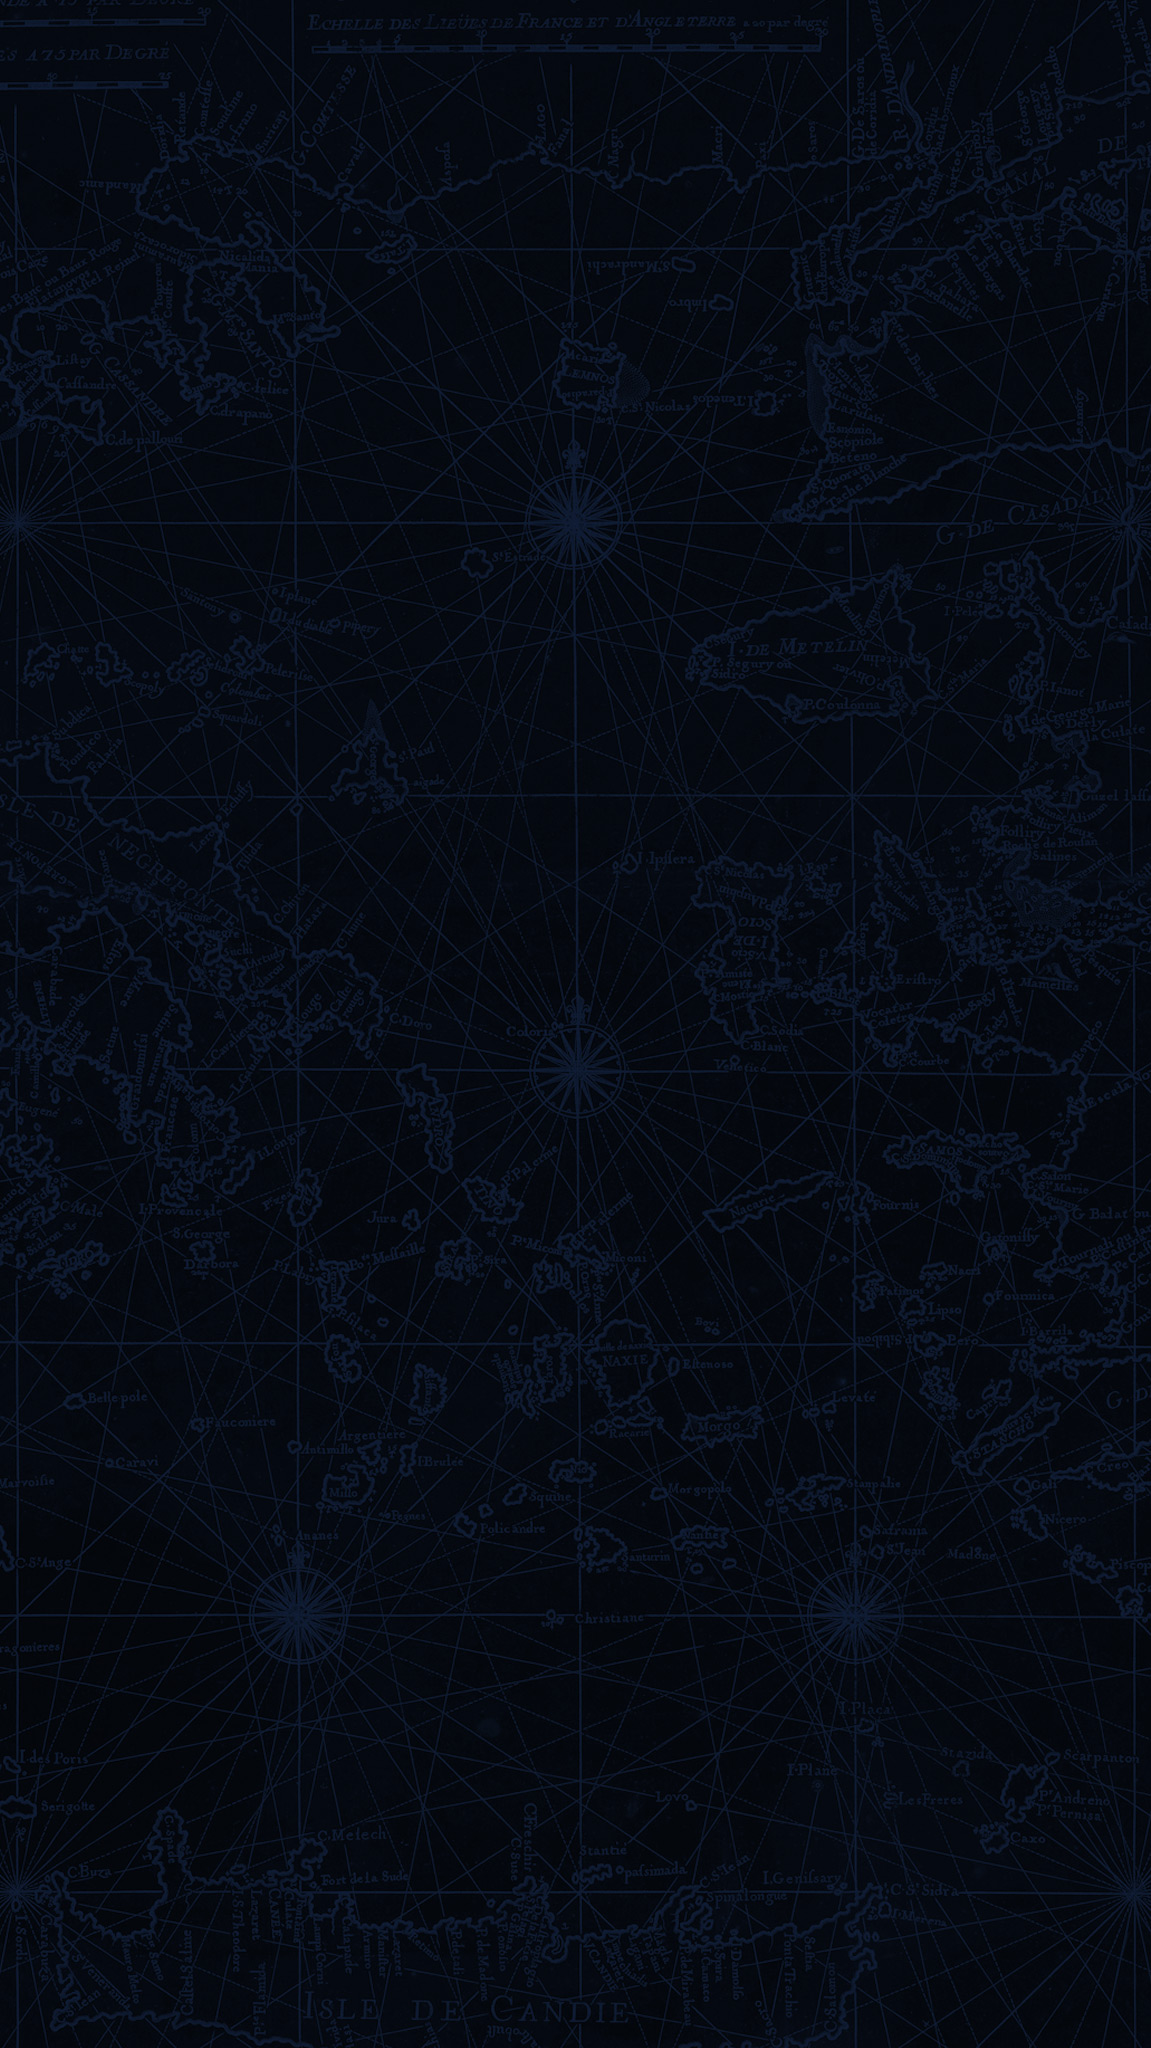
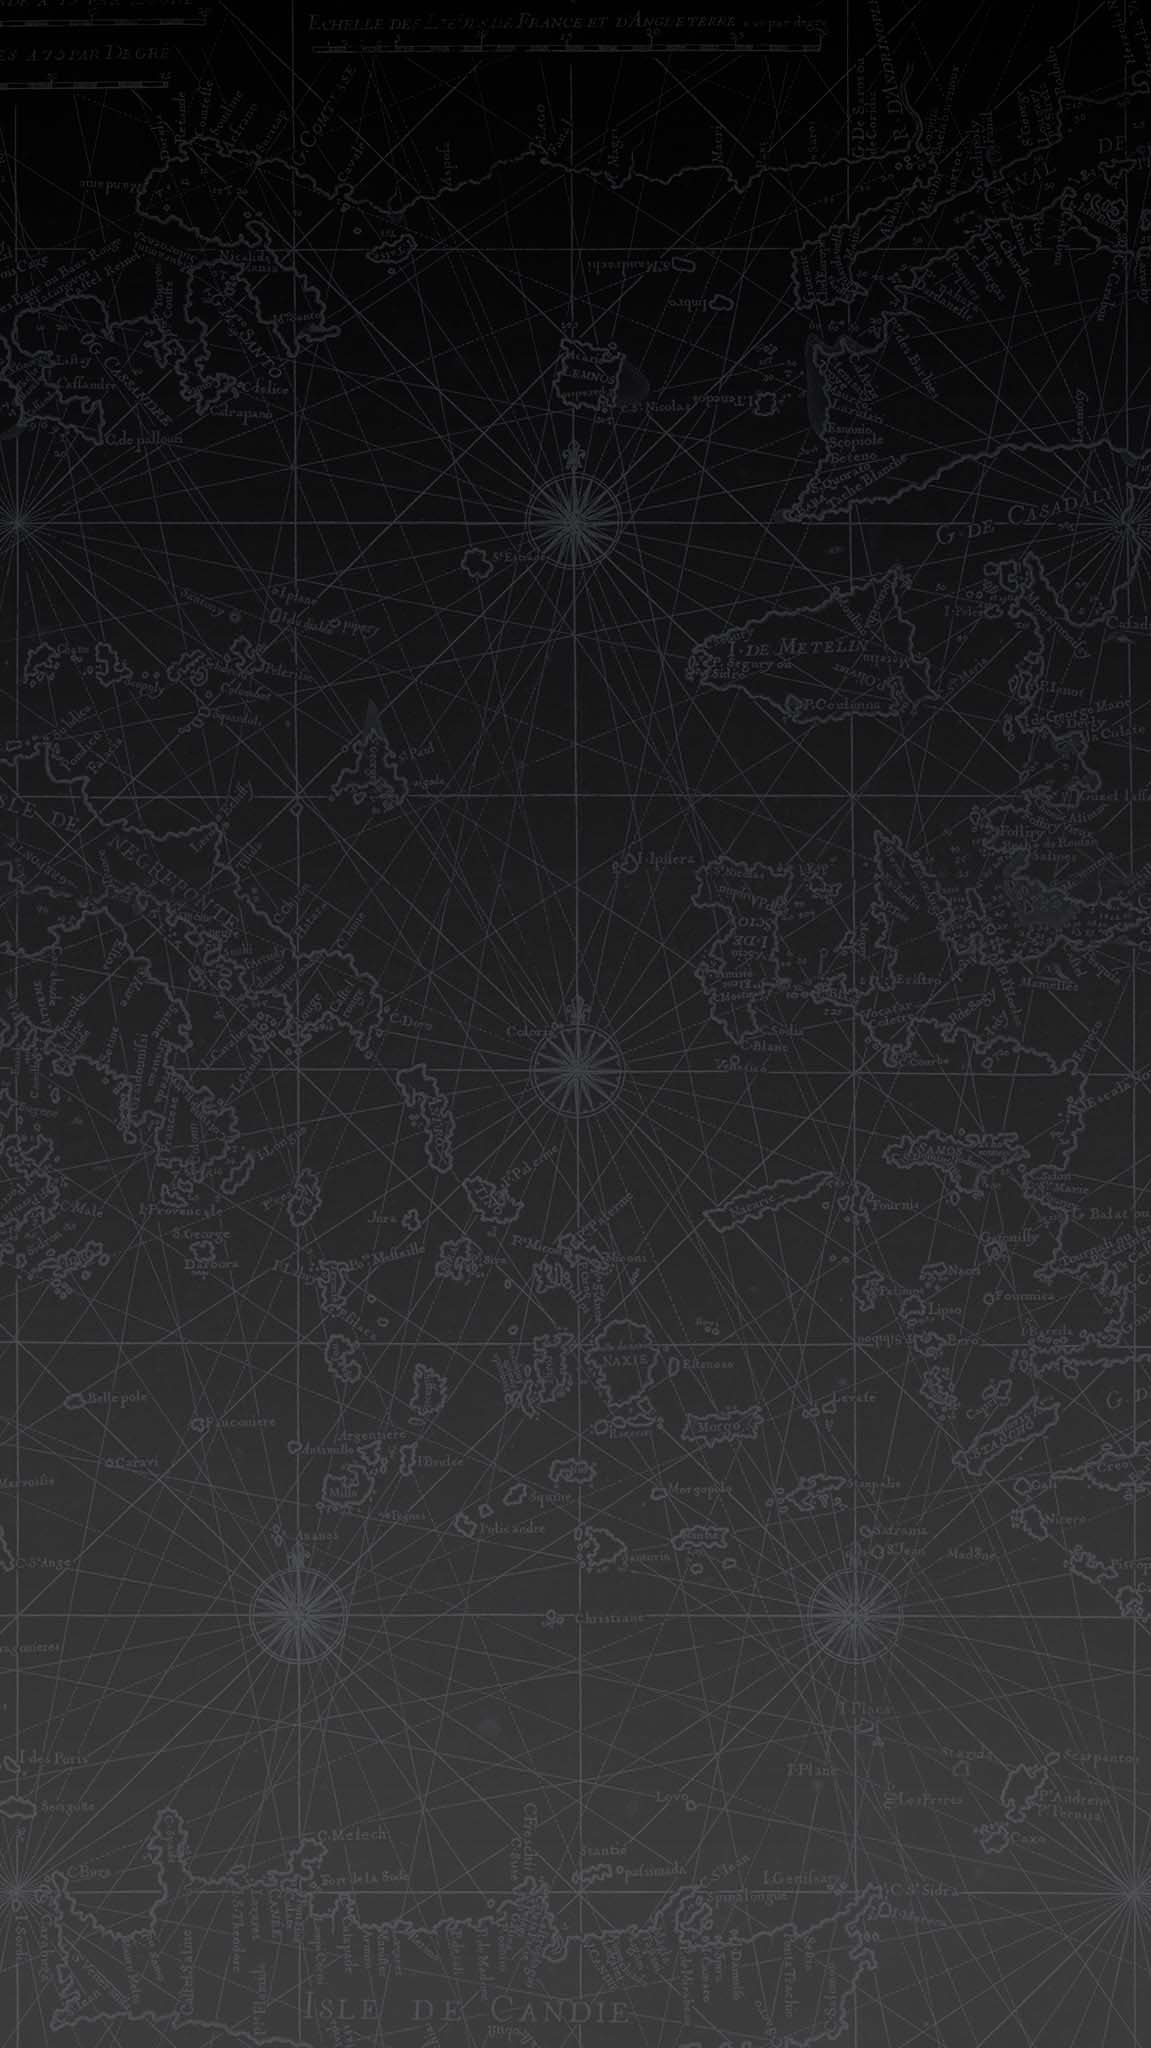
Wallet, UI fixes
- Wallet UI updates
- Fix names of background files
- Update navigation bar styling

diff --git a/src/global/Screens.js b/src/global/Screens.js
@@ -24,26 +24,61 @@ export const androidNavigationButtons = Platform.OS === 'android' ? {
 } : {};
 
 // Navigation Bar Style
+/*
+  Documentation:
+  
+  navBarTextColor: '#000000', // change the text color of the title (remembered across pushes)
+  navBarTextFontSize: 18, // change the font size of the title
+  navBarTextFontFamily: 'font-name', // Changes the title font
+  navBarBackgroundColor: '#f7f7f7', // change the background color of the nav bar (remembered across pushes)
+  navBarCustomView: 'example.CustomTopBar', // registered component name
+  navBarComponentAlignment: 'center', // center/fill
+  navBarCustomViewInitialProps: {}, // navBar custom component props
+  navBarButtonColor: '#007aff', // Change color of nav bar buttons (eg. the back button) (remembered across pushes)
+  topBarElevationShadowEnabled: false, // (Android - default: true, iOS - default: false). Disables TopBar elevation shadow on Lolipop and above
+  navBarHidden: false, // make the nav bar hidden
+  navBarHideOnScroll: false, // make the nav bar hidden only after the user starts to scroll
+  navBarTranslucent: false, // make the nav bar semi-translucent, works best with drawUnderNavBar:true
+  navBarTransparent: false, // make the nav bar transparent, works best with drawUnderNavBar:true,
+  navBarNoBorder: false, // hide the navigation bar bottom border (hair line). Default false
+  drawUnderNavBar: false, // draw the screen content under the nav bar, works best with navBarTranslucent:true
+  drawUnderTabBar: false, // draw the screen content under the tab bar (the tab bar is always translucent)
+  navBarBlur: false, // blur the entire nav bar, works best with drawUnderNavBar:true
+  tabBarHidden: false, // make the screen content hide the tab bar (remembered across pushes)
+  statusBarHidden: false, // make the status bar hidden regardless of nav bar state
+  statusBarTextColorScheme: 'dark', // text color of status bar, 'dark' / 'light' (remembered across pushes)
+  navBarSubtitleColor: 'red', // subtitle color
+  navBarSubtitleFontFamily: 'font-name', // subtitle font, 'sans-serif-thin' for example
+  navBarSubtitleFontSize: 13, // subtitle font size
+  screenBackgroundColor: 'white', // Default screen color, visible before the actual react view is rendered
+  orientation: 'portrait' // Sets a specific orientation to a modal and all screens pushed to it. Default: 'auto'. Supported values: 'auto', 'landscape', 'portrait'
+  disabledButtonColor: '#ff0000' // chnaged the navigation bar button text color when disabled.
+ 
+ rootBackgroundImageName: '<name of image in Images.xcassets>', // Static while you transition between screens. Works best with screenBackgroundColor: 'transparent'
+ */
 export const navigatorStyle = {
   statusBarTextColorScheme: 'light',
-  statusBarColor: Platform.OS === 'ios' ? 'transparent' : 'black',
-  navBarTransparent: true,
-  navBarTranslucent: true,
-  navBarNoBorder: true,
+  statusBarColor: Platform.OS === 'ios' ? Colors.statusBarColorIOS : Colors.statusBarColorOther,    // Nativebase variable!
+	navBarBackgroundColor: Colors.navBarBackgroundColor,
+  navBarTransparent: Colors.navBarTransparent,
+  navBarBlur: false,  // blur is too light
+  navBarTranslucent: Colors.navBarTranslucent,
+  navBarNoBorder: Colors.navBarNoBorder,
   drawUnderNavBar: true,
-  drawUnderStatusBar: false,
+  drawUnderStatusBar: false,  // Apple says, don't do it. So we don't.
   navBarTextColor: Colors.navBarTextColor,
+	navBarButtonColor: Colors.navBarButtonColor,
   screenBackgroundColor: 'transparent',
-  rootBackgroundImageName: 'background',
+  rootBackgroundImageName: 'background-gray.jpg',
 };
 
 export const hiddenNavigatorStyle = {
   statusBarTextColorScheme: 'light',
-  statusBarColor: Platform.OS === 'ios' ? 'transparent' : 'black',
+  statusBarColor: Platform.OS === 'ios' ? Colors.statusBarColorIOS : Colors.statusBarColorOther,
   navBarHidden: true,
-  drawUnderStatusBar: false,
+  drawUnderStatusBar: false,  // Apple says, don't do it. So we don't.
   screenBackgroundColor: 'transparent',
-  rootBackgroundImageName: 'background',
+  rootBackgroundImageName: 'background-gray.jpg',
 };
 
 const baseKeyScreen = {
@@ -99,7 +134,7 @@ const Screens = {
     screen: 'Pangea.WalletScreen',
     label: i18n.t('screens.wallet.tabTitle'),
     icon: AssetsImages.TabIcons.wallet,
-    title: i18n.t('screens.wallet.title'),
+    title: '',    //To show, use i18n.t('screens.wallet.title'),
     navigatorStyle,
   },
   PROFILE_SCREEN: {

diff --git a/src/screens/WalletScreen/EmptyState/index.js b/src/screens/WalletScreen/EmptyState/index.js
@@ -1,3 +1,12 @@
+/*
+    EmptyState
+    
+    Return a ScrollView with panels for creating or restoring a wallet, to fit
+    inside a normal screen view.
+    
+    This does not return a complete screen. There is no navigation, etc.
+ */
+
 import React, { Component } from 'react';
 import {
   ScrollView,
@@ -15,24 +24,22 @@ export default class EmptyWalletScreen extends Component {
 
   render() {
     return (
-      <View style={styles.screenContainer}>
-        <BackgroundImage/>
-        <FakeNavigationBar/>
-        <ScrollView contentContainerStyle={styles.bodyContainer}>
-          <PanelView
-            title={i18n.t('screens.wallet.empty.createWalletPanel.title')}
-            body={i18n.t('screens.wallet.empty.createWalletPanel.text')}
-            buttonTitle={i18n.t('screens.wallet.empty.createWalletPanel.button')}
-            onButtonClick={this.props.onCreateWallet}
-          />
-          <PanelView
-            title={i18n.t('screens.wallet.empty.restoreWalletPanel.title')}
-            body={i18n.t('screens.wallet.empty.restoreWalletPanel.text')}
-            buttonTitle={i18n.t('screens.wallet.empty.restoreWalletPanel.button')}
-            onButtonClick={this.props.onRestoreWallet}
-          />
-        </ScrollView>
-      </View>
+	    <View style={styles.bodyContainer}>
+		    <ScrollView style={styles.scrollView}>
+              <PanelView
+                title={i18n.t('screens.wallet.empty.createWalletPanel.title')}
+                body={i18n.t('screens.wallet.empty.createWalletPanel.text')}
+                buttonTitle={i18n.t('screens.wallet.empty.createWalletPanel.button')}
+                onButtonClick={this.props.onCreateWallet}
+              />
+              <PanelView
+                title={i18n.t('screens.wallet.empty.restoreWalletPanel.title')}
+                body={i18n.t('screens.wallet.empty.restoreWalletPanel.text')}
+                buttonTitle={i18n.t('screens.wallet.empty.restoreWalletPanel.button')}
+                onButtonClick={this.props.onRestoreWallet}
+              />
+            </ScrollView>
+        </View>
     );
   }
 }

diff --git a/src/screens/WalletScreen/index.js b/src/screens/WalletScreen/index.js
@@ -1,6 +1,6 @@
 import React, { Component } from 'react';
 import {
-  View,
+  View, Text,
 } from 'react-native';
 import { connect } from 'react-redux';
 import _ from 'lodash';
@@ -13,6 +13,8 @@ import { selectWallet, updateWalletList } from '../../actions/wallet';
 import NavigatorComponent from '../../components/common/NavigatorComponent';
 import { removeAllPrivateKeys } from '../../actions/key';
 import i18n from '../../global/i18n';
+import styles from '../NationsScreen/NationsListScreen/styles'
+import FakeNavigationBar from '../../components/common/FakeNavigationBar';
 
 const REMOVE_WALLETS_BUTTON = 'REMOVE_WALLETS_BUTTON';
 
@@ -68,6 +70,13 @@ class WalletScreen extends NavigatorComponent {
     return (
       <View style={{ flex: 1 }}>
         <Background/>
+	      <FakeNavigationBar/>
+	      <View style={styles.titleContainer}>
+		      {/* TITLE OF SCREEN */}
+		      <View style={styles.titleBarLarge}>
+			      <Text style={styles.largeTitle}>{i18n.t('screens.wallet.title')}</Text>
+		      </View>
+	      </View>
         {_.isEmpty(this.props.wallets) ?
           <EmptyWalletScreen
             onCreateWallet={this.createWallet}

diff --git a/src/global/colors.js b/src/global/colors.js
@@ -166,6 +166,19 @@ export default {
 	
 	// NAVIGATOR COLORS (in SCREENS.JS)
 	navBarTextColor: 'white',
+	navBarButtonColor: 'white',
+	navBarBackgroundColor: 'transparent',
+	
+	disabledButtonColor: '#F1F2F6', // gray_200
+	
+	// If navBarTranslucent=false, the FakeNavigationBar pushes everything down below!
+	navBarTranslucent: true,
+	navBarTransparent: true,
+	
+	navBarNoBorder: true,
+	
+	statusBarColorOther: 'black',
+	statusBarColorIOS: 'black',
 	
 	
 	// PLATFORM SPECIFIC COLORS

diff --git a/src/screens/NationsScreen/NationsListScreen/index.js b/src/screens/NationsScreen/NationsListScreen/index.js
@@ -37,7 +37,7 @@ class NationsListScreen extends Component {
         <View style={styles.titleContainer}>
           {/* TITLE OF SCREEN */}
           <View style={styles.titleBarLarge}>
-            <Text style={styles.largeTitle}>Nations</Text>
+            <Text style={styles.largeTitle}>{i18n.t('screens.nations.title')}</Text>
           </View>
         </View>
         <View style={styles.segmentedControlContainer}>

diff --git a/src/global/AssetsImages.js b/src/global/AssetsImages.js
@@ -1,6 +1,6 @@
 const logo = require('../assets/images/logo.png');
 
-const background = require('../assets/images/background-gray.jpg');
+const background = require('../assets/images/background.jpg');
 const rightArrow = require('../assets/images/right_arrow.png');
 const ethereumLogo = require('../assets/images/ethereum_logo.png');
 const demo = require('../assets/images/demoImage.png');

diff --git a/src/screens/WalletScreen/EmptyState/styles.js b/src/screens/WalletScreen/EmptyState/styles.js
@@ -4,11 +4,5 @@ import GlobalStyles from '../../../global/Styles';
 
 export default styles = MediaQueryStyleSheet.create({
   ...GlobalStyles,
-  bodyContainer: {
-    ...GlobalStyles.bodyContainer,
-    flex: 0,
-    marginLeft: 8,
-    marginRight: 8,
-  },
 });
   
